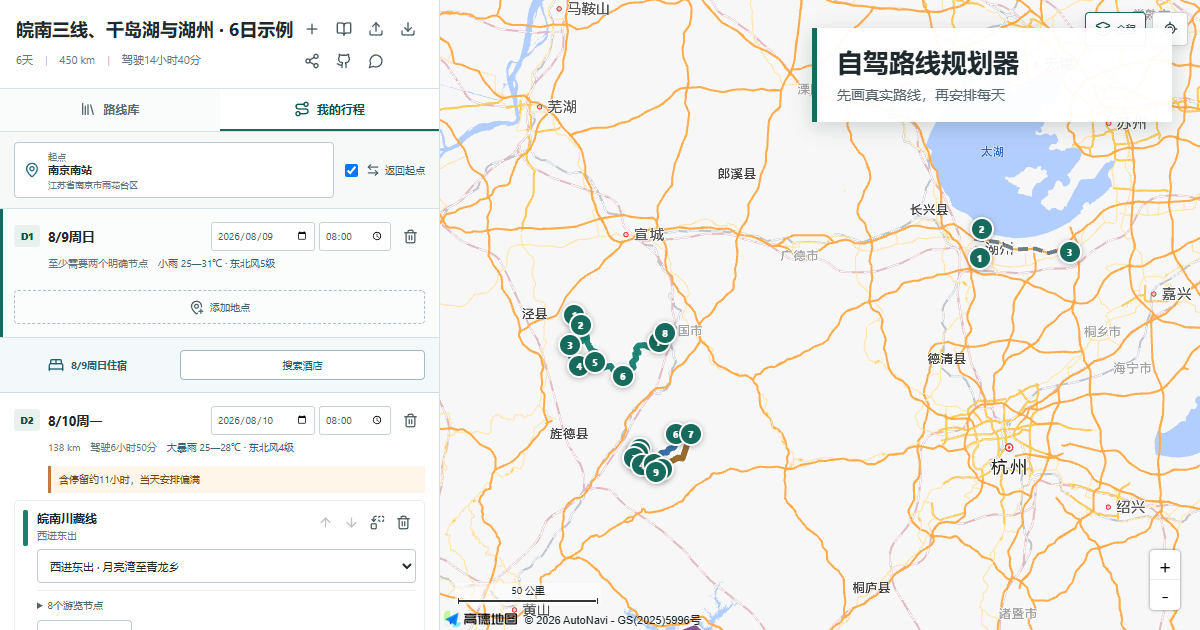
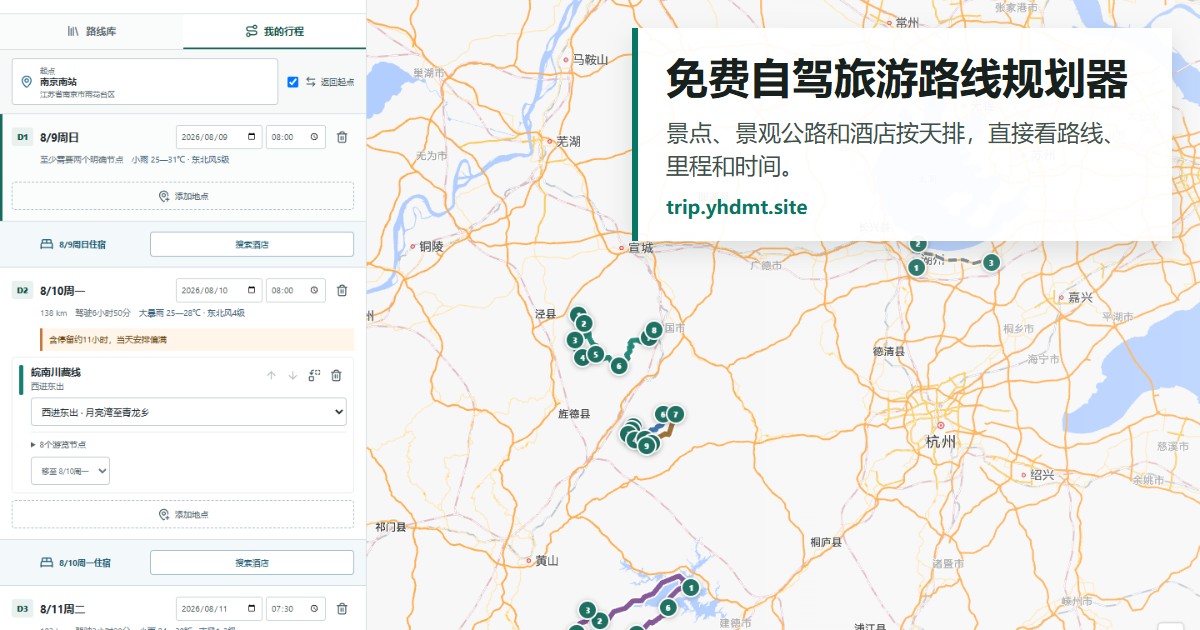
update public name and README (#1)

Changed region(s): [[0.0, 0.0, 1.0, 1.0], [0.6475, 0.7841, 0.7092, 0.9349], [0.2775, 0.9651, 0.3083, 0.9952]]

diff --git a/assets/readme/source/hero-layout.html b/assets/readme/source/hero-layout.html
@@ -1,0 +1,27 @@
+<!doctype html>
+<html lang="zh-CN">
+<head>
+  <meta charset="UTF-8">
+  <style>
+    * { box-sizing: border-box; }
+    html, body { margin: 0; width: 1200px; height: 400px; overflow: hidden; font-family: "Microsoft YaHei", "PingFang SC", sans-serif; }
+    .hero { position: relative; width: 1200px; height: 400px; overflow: hidden; border-radius: 18px; background: #f5f6f3 url("hero-map.png") center/cover no-repeat; }
+    .copy { position: absolute; left: 58px; top: 50px; width: 585px; }
+    .eyebrow { color: #07594c; font-size: 19px; font-weight: 800; }
+    h1 { margin: 30px 0 0; color: #18201e; font-size: 50px; line-height: 1.05; letter-spacing: 0; white-space: nowrap; }
+    .desc { margin: 22px 0 0; width: 570px; color: #40504b; font-size: 27px; line-height: 1.55; }
+    .meta { position: absolute; left: 58px; bottom: 42px; display: flex; gap: 30px; color: #07594c; font-size: 19px; font-weight: 800; }
+    .meta span + span::before { content: "\00b7"; margin-right: 30px; color: #f28c42; }
+  </style>
+</head>
+<body>
+  <main class="hero">
+    <div class="copy">
+      <div class="eyebrow">开源 · 不用登录 · 浏览器本地保存</div>
+      <h1>免费自驾旅游路线规划器</h1>
+      <p class="desc">把起点、景点、景观公路和酒店按天排好，直接看路线、里程和时间。</p>
+    </div>
+    <div class="meta"><span>全国地点搜索</span><span>住宿衔接两天</span><span>手机跳转高德</span></div>
+  </main>
+</body>
+</html>

diff --git a/assets/social-cover-layout.html b/assets/social-cover-layout.html
@@ -1,0 +1,25 @@
+<!doctype html>
+<html lang="zh-CN">
+<head>
+  <meta charset="UTF-8">
+  <style>
+    * { box-sizing: border-box; }
+    html, body { margin: 0; width: 1200px; height: 630px; overflow: hidden; font-family: "Microsoft YaHei", "PingFang SC", sans-serif; }
+    main { position: relative; width: 1200px; height: 630px; background: #f6f7f5 url("../docs/images/planner-desktop.png") center/cover no-repeat; }
+    main::after { content: ""; position: absolute; inset: 0; background: linear-gradient(90deg, transparent 34%, rgba(255,255,255,.04) 55%, rgba(255,255,255,.18)); }
+    .copy { position: absolute; z-index: 1; top: 28px; right: 28px; width: 540px; padding: 24px 28px 22px; border-left: 6px solid #087664; background: rgba(255,255,255,.94); box-shadow: 0 10px 26px rgba(24,32,30,.12); }
+    h1 { margin: 0; color: #18201e; font-size: 42px; line-height: 1.18; letter-spacing: 0; white-space: nowrap; }
+    p { margin: 14px 0 0; color: #40504b; font-size: 23px; line-height: 1.45; }
+    .url { margin-top: 12px; color: #087664; font-size: 19px; font-weight: 800; }
+  </style>
+</head>
+<body>
+  <main>
+    <section class="copy">
+      <h1>免费自驾旅游路线规划器</h1>
+      <p>景点、景观公路和酒店按天排，直接看路线、里程和时间。</p>
+      <div class="url">trip.yhdmt.site</div>
+    </section>
+  </main>
+</body>
+</html>

diff --git a/index.html b/index.html
@@ -5,12 +5,12 @@
     <meta name="viewport" content="width=device-width, initial-scale=1.0" />
     <meta name="description" content="在高德地图上按天组合自驾路线、普通地点和住宿，支持全国起终点与皖南浙西精选公路。" />
     <meta property="og:type" content="website" />
-    <meta property="og:title" content="自驾路线规划器" />
+    <meta property="og:title" content="免费自驾旅游路线规划器" />
     <meta property="og:description" content="先把真实路线画出来，再决定每天去哪、住哪里。" />
     <meta property="og:url" content="https://trip.yhdmt.site/" />
     <meta property="og:image" content="https://trip.yhdmt.site/social-cover.png" />
     <meta name="twitter:card" content="summary_large_image" />
-    <title>自驾路线规划器</title>
+    <title>免费自驾旅游路线规划器</title>
   </head>
   <body>
     <div id="root"></div>

diff --git a/README.md b/README.md
@@ -1,26 +1,58 @@
-# 自驾路线规划器
+<p align="center">
+  <img src="./assets/readme/hero.png" width="100%" alt="免费自驾旅游路线规划器：地点、景观公路和住宿按天放进地图">
+</p>
 
-把景观公路、普通地点和住宿按日期排在同一张地图上。项目匿名使用，不提供账号、酒店价格或自动生成攻略。
+<p align="center">
+  <a href="https://trip.yhdmt.site"><img alt="在线使用" src="https://img.shields.io/badge/在线使用-trip.yhdmt.site-07594c?style=flat-square"></a>
+  <a href="https://github.com/mituan-ai/china-roadtrip-planner/actions/workflows/ci.yml"><img alt="CI" src="https://img.shields.io/github/actions/workflow/status/mituan-ai/china-roadtrip-planner/ci.yml?branch=main&style=flat-square&label=CI"></a>
+  <a href="https://github.com/mituan-ai/china-roadtrip-planner/releases/tag/v1.0.0"><img alt="v1.0.0" src="https://img.shields.io/badge/version-v1.0.0-f28c42?style=flat-square"></a>
+  <a href="./LICENSE"><img alt="MIT License" src="https://img.shields.io/badge/license-MIT-18201e?style=flat-square"></a>
+</p>
 
-- 在线使用：[trip.yhdmt.site](https://trip.yhdmt.site)
-- 源码仓库：[mituan-ai/china-roadtrip-planner](https://github.com/mituan-ai/china-roadtrip-planner)
+免费的自驾旅游路线规划器，不用登录。选起终点，把景点、景观公路和酒店按天排好，地图会画出路线，并算出每天的里程和驾驶时间。
 
-![桌面端行程规划界面](docs/images/planner-desktop.png)
+路线绕不绕、一天开多久、酒店会不会让前后两天折返，都能直接看。
 
-## 能做什么
+使用方法：选起终点和日期 → 加路线或地点 → 看地图调顺序。
 
-- 搜索全国范围内的起点、终点、普通地点和酒店。
-- 按天组合路线、调整顺序、停留时间和住宿节点。
-- 住宿同时作为前一天终点和次日起点，不生成虚假的过夜落点。
-- 在高德底图上显示真实驾驶折线，并从手机网页唤起高德导航。
-- 在天气预报覆盖范围内显示逐日天气。
-- 本地自动保存，支持JSON和默认不含住宿的分享链接。
+<p align="center">
+  <a href="https://trip.yhdmt.site"><strong>打开网站</strong></a>
+  &nbsp;·&nbsp;
+  <a href="https://github.com/mituan-ai/china-roadtrip-planner/issues">提问题</a>
+  &nbsp;·&nbsp;
+  <a href="./docs/route-data-format.md">添加路线</a>
+</p>
 
-路线库目前只有5条经过核验的皖南、浙西路线：皖南川藏线、皖浙天路、浙西天路、皖浙1号公路和环千岛湖公路。普通地点规划不受该范围限制。
+<p align="center">
+  <img src="./docs/images/planner-desktop.png" width="100%" alt="桌面端按天编排行程和地图路线">
+</p>
+
+## 怎么用
+
+1. 选起点、终点和日期。
+2. 把路线模板或普通地点放到某一天。
+3. 看地图和当天驾驶时间，再调顺序。
+4. 需要过夜时搜索酒店。酒店会同时成为前一天终点和第二天起点。
+
+手机点开地点后，可以跳到高德导航。行程保存在当前浏览器，也可导出 JSON。
+
+## 现在有哪些路线
+
+路线库现在只有5条皖南、浙西路线：
+
+| 路线 | 可选方向或版本 |
+| --- | --- |
+| 皖南川藏线 | 西进东出、东进西出 |
+| 皖浙天路 | 家朋至荆州及反向，岛石可选 |
+| 浙西天路 | 59公里精华线、139公里环线 |
+| 皖浙1号公路 | 屯溪至千岛湖及反向 |
+| 环千岛湖公路 | 顺时针、逆时针 |
+
+起终点和普通地点可以在全国范围搜索。路线模板仍需继续补充。
 
 ## 本地运行
 
-需要 Node.js 22 和三个高德开放平台配置：Web端JS API Key、安全密钥、Web服务Key。每个部署者应申请并限制自己的Key，不要复用在线演示站的配置。
+需要 [Node.js 22+](https://nodejs.org/) 和三项高德开放平台配置：Web 端 JS API Key、安全密钥、Web 服务 Key。请申请自己的 Key 并限制可用域名。
 
 ```powershell
 Copy-Item .env.example .env
@@ -28,7 +60,8 @@ npm install
 npm run dev
 ```
 
-前端开发地址为 `http://127.0.0.1:5173`，API为 `http://127.0.0.1:3000`。
+- 前端：`http://127.0.0.1:5173`
+- API：`http://127.0.0.1:3000`
 
 ```powershell
 npm run typecheck
@@ -37,6 +70,28 @@ npm run build
 npm run test:e2e
 ```
 
+## 技术结构
+
+<p align="center">
+  <img src="./assets/readme/workflow.svg" width="100%" alt="浏览器、Fastify 服务端与高德 API 之间的数据流程">
+</p>
+
+<p align="center">
+  <img alt="React" src="https://img.shields.io/badge/React-19-20232a?style=flat-square&logo=react&logoColor=61dafb">
+  <img alt="TypeScript" src="https://img.shields.io/badge/TypeScript-5-3178c6?style=flat-square&logo=typescript&logoColor=white">
+  <img alt="Vite" src="https://img.shields.io/badge/Vite-7-646cff?style=flat-square&logo=vite&logoColor=white">
+  <img alt="Fastify" src="https://img.shields.io/badge/Fastify-5-18201e?style=flat-square&logo=fastify&logoColor=white">
+  <img alt="Zod" src="https://img.shields.io/badge/Zod-3-3e67b1?style=flat-square&logo=zod&logoColor=white">
+  <img alt="Zustand" src="https://img.shields.io/badge/Zustand-5-8b5e3c?style=flat-square">
+  <img alt="Playwright" src="https://img.shields.io/badge/Playwright-E2E-2e8b57?style=flat-square&logo=playwright&logoColor=white">
+  <img alt="Docker" src="https://img.shields.io/badge/Docker-ready-2496ed?style=flat-square&logo=docker&logoColor=white">
+</p>
+
+- 前端使用 React、TypeScript、Vite 和 Zustand。
+- Fastify 代理高德 Web 服务请求，Web Service Key 不进浏览器。
+- Zod 校验行程、路线和 API 输入。
+- Vitest 和 Playwright 覆盖域模型、API、桌面端和手机端流程。
+
 ## Docker
 
 ```powershell
@@ -44,24 +99,41 @@ Copy-Item .env.example .env
 docker compose up -d --build
 ```
 
-默认只在本机 `127.0.0.1:3000` 暴露服务。生产环境可使用 `compose.production.yaml` 加入已有Caddy网络：
+默认只在 `127.0.0.1:3000` 暴露服务。生产环境可以加入现有 Caddy 网络：
 
 ```bash
 docker compose -f compose.yaml -f compose.production.yaml pull
 docker compose -f compose.yaml -f compose.production.yaml up -d --no-build
 ```
 
-设置 `TRUST_PROXY=true`、`CADDY_NETWORK` 和自己的域名。`deploy.Caddyfile` 是可修改的Caddy模板。
+生产环境设置 `TRUST_PROXY=true`、`CADDY_NETWORK` 和自己的域名。`deploy.Caddyfile` 是可直接修改的模板。
 
-## 数据与隐私
+<details>
+<summary><strong>数据与隐私</strong></summary>
 
-- 地图、POI和路线坐标统一使用GCJ-02。
-- 行程保存在浏览器 `localStorage`；服务端不建立用户方案数据库。
-- URL Hash不会随HTTP请求发送到服务器，分享时默认移除住宿。
-- 地点关键词和路线坐标会经本站服务端发送给高德地图，以完成搜索、路线和天气请求。
-- Web Service Key只存在服务器环境变量；Web端JS Key及其安全密钥按高德Web API要求发送到浏览器。
+- 地图、POI 和路线坐标统一使用 GCJ-02。
+- 行程保存在浏览器 `localStorage`；服务端没有用户行程数据库。
+- 分享数据放在 URL Hash，默认不包含住宿。
+- 地点关键词和路线坐标会经服务端发送给高德，用于搜索、路线和天气请求。
+- Web Service Key 只存在服务器环境变量中。Web 端 JS Key 和安全密钥会按高德 Web API 要求发送到浏览器。
 
-路线数据要求和贡献方法见 [CONTRIBUTING.md](CONTRIBUTING.md)，字段格式见 [docs/route-data-format.md](docs/route-data-format.md)，资料说明见 [DATA_SOURCES.md](DATA_SOURCES.md)。
+</details>
+
+## 目前不做什么
+
+- 不做账号、云端方案库或社区。
+- 不提供酒店价格、预订或付费功能。
+- 天气只显示高德当前能查到的日期。
+- 路线会受施工、管制和天气影响，出发前仍要看实时导航和当地通知。
+
+## 添加路线
+
+路线不是一串景点名。每条模板需要标明方向、可选节点、隐藏导航锚点、资料来源和核验日期。
+
+- 贡献流程：[CONTRIBUTING.md](CONTRIBUTING.md)
+- 路线数据格式：[docs/route-data-format.md](docs/route-data-format.md)
+- 资料与核验要求：[DATA_SOURCES.md](DATA_SOURCES.md)
+- 安全问题：[SECURITY.md](SECURITY.md)
 
 ## 许可证
 
